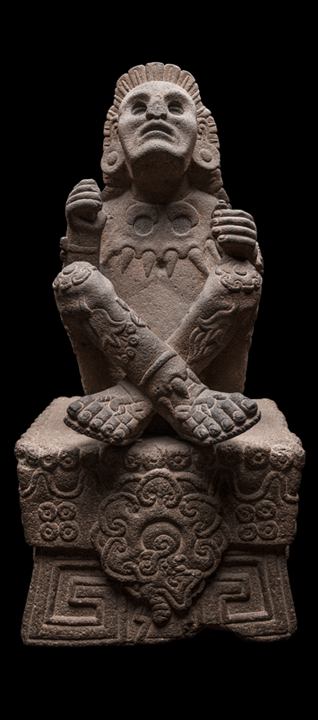
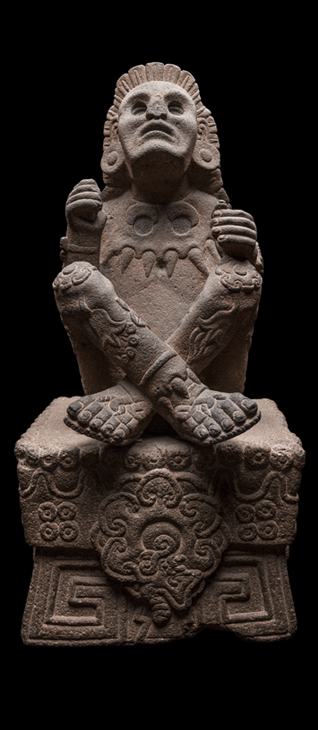
Interpretación - Atavio de tierra - Cambio por imagen para que quedara del mismp tamaño en reticula

Changed region(s): [[0.0283, 0.0611, 0.9623, 0.9167], [0.7642, 0.4583, 0.7925, 0.4889]]

diff --git a/css/style.css b/css/style.css
@@ -2275,7 +2275,7 @@ input[type=range] {
 /*LUPE - Sección 3 - ESPAÑOL - thumbs de vistas de xochipilli*/
 .lectura-general-Seccion > .LecturaGnral-BloqueB > .asset_figura_03t_1{
 	width: 318px;
-	height: 720px;
+	height: 730px;
 	background: url("../images/p10-atavios-de-tierra/thumb/INT_03t_img_01.png");
 	background-size: 318px 730px;
 	position: absolute;
